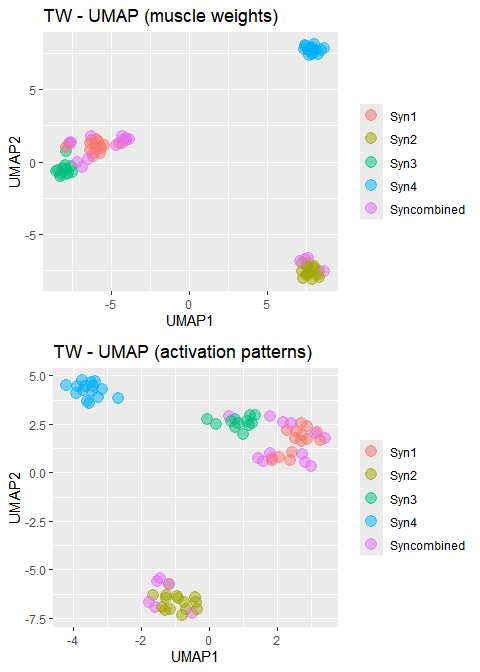
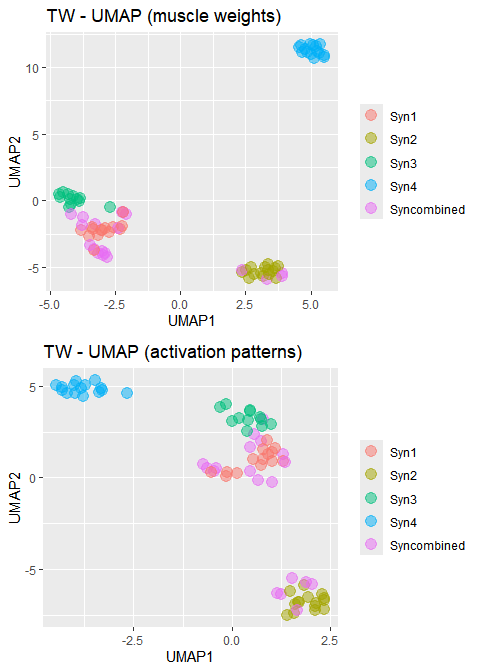
Updated workflows

diff --git a/README.md b/README.md
@@ -1,11 +1,3 @@
----
-title:
-output:
-  html_document:
-    keep_md: yes
----
-
-
 [![DOI](https://joss.theoj.org/papers/10.21105/joss.04439/status.svg)](https://doi.org/10.21105/joss.04439)
 [![Bluesky](https://img.shields.io/badge/Bluesky-0285FF?style=for-the-badge&logo=Bluesky&logoColor=white)](https://bsky.app/profile/musclesynergies.bsky.social)
 
@@ -385,3 +377,7 @@ message("Hurst exponent: ", round(nonlin_H, 3))
 ```
 ## How to contribute to `musclesyneRgies`
 Thank you for taking the time to read this. Please refer to the [CONTRIBUTING](https://github.com/alesantuz/musclesyneRgies/blob/master/CONTRIBUTING.md) section for guidance on contributing to this package.
+
+<!-- badges: start -->
+[![R-CMD-check](https://github.com/alesantuz/musclesyneRgies/actions/workflows/R-CMD-check.yaml/badge.svg)](https://github.com/alesantuz/musclesyneRgies/actions/workflows/R-CMD-check.yaml)
+<!-- badges: end -->
